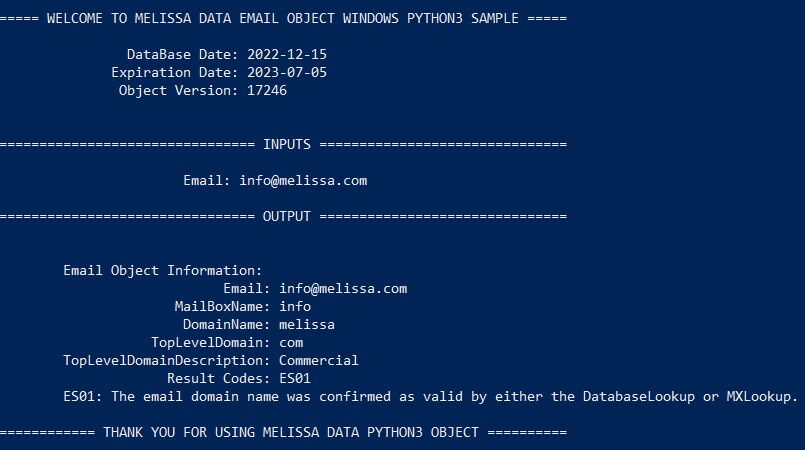
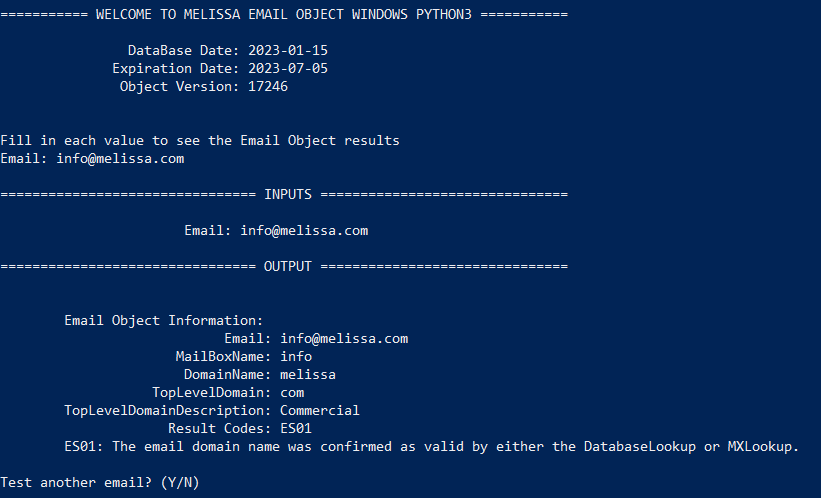
Commit Python3 code for Email Object with release notes

diff --git a/MelissaEmailObjectWindowsPython3/MelissaEmailObjectWindowsPython3.py b/MelissaEmailObjectWindowsPython3/MelissaEmailObjectWindowsPython3.py
@@ -33,7 +33,7 @@ class EmailObject:
         print(f"              Expiration Date: {self.md_email_obj.GetLicenseStringExpirationDate()}")
       
         """
-        This number should match with file properties of the Melissa Data Object binary file.
+        This number should match with file properties of the Melissa Object binary file.
         If TEST appears with the build number, there may be a license key issue.
         """
         print(f"               Object Version: {self.md_email_obj.GetBuildNumber()}\n")
@@ -81,7 +81,7 @@ def parse_arguments():
     return (license, test_email, data_path)
 
 def run_as_console(license, test_email, data_path):
-    print("\n\n===== WELCOME TO MELISSA DATA EMAIL OBJECT WINDOWS PYTHON3 SAMPLE =====\n")
+    print("\n\n=========== WELCOME TO MELISSA EMAIL OBJECT WINDOWS PYTHON3 ===========\n")
 
     email_object = EmailObject(license, data_path)
 
@@ -145,7 +145,7 @@ def run_as_console(license, test_email, data_path):
             
               print("Invalid Response, please respond 'Y' or 'N'")
 
-    print("\n============ THANK YOU FOR USING MELISSA DATA PYTHON3 OBJECT ==========\n")
+    print("\n=============== THANK YOU FOR USING MELISSA PYTHON3 OBJECT ============\n")
     
 
 

diff --git a/MelissaEmailObjectWindowsPython3/mdEmail_pythoncode.py b/MelissaEmailObjectWindowsPython3/mdEmail_pythoncode.py
@@ -7,9 +7,9 @@ dir = os.getcwd()
 
 
 if (os.name == 'nt'):
-  lib = ctypes.CDLL(f'{dir}/MelissaDataEmailObjectWindowsPython3Sample/mdEmail.dll')
+  lib = ctypes.CDLL(f'{dir}/MelissaEmailObjectWindowsPython3/mdEmail.dll')
 else:
-  lib = ctypes.CDLL('libmdPhone.so')
+  lib = ctypes.CDLL(f'{dir}/MelissaEmailObjectLinuxPython3/libmdPhone.so')
 
 
 lib.mdEmailCreate.argtypes = []

diff --git a/README.md b/README.md
@@ -1,8 +1,12 @@
-# Melissa Data Email Object Windows Python3 Sample
+# Melissa - Email Object Windows Python3
 
 ## Purpose
 
-This is an sample of the Melissa Data Email Object using Python3
+This code showcases the Melissa Email Object using Python3
+
+Please feel free to copy or embed this code to your own project. Happy coding!
+
+For the latest Melissa Email Object release notes, please visit: https://releasenotes.melissa.com/on-premise-api/email-object/
 
 The console will ask the user for:
 
@@ -26,7 +30,7 @@ And return
 
 #### mdEmail.dll
 
-This is the c++ code of the Melissa Data Object.
+This is the c++ code of the Melissa Object.
 
 #### Data File(s)
 - mdEmail.cfg
@@ -37,14 +41,30 @@ These instructions will get you a copy of the project up and running on your loc
 
 This project is compatible with Python3
 
-#### Install the Python3
+#### Install Python3
 Before starting, make sure that Python3 has been correctly installed on your machine and your environment paths are configured. 
+
+You can download Python here: 
+https://www.python.org/downloads/
+
+To set up your Path to correctly to use the python3 command, execute the following steps:
+1) Run Powershell as an administrator 
+2) Execute the command: 
+`New-Item -ItemType SymbolicLink -Path "Link" -Target "Target"`
+
+    where "Target" is the path to py.exe (by default this should be "C:\Windows\py.exe")\
+    and "Link" is the path to py.exe, but "py.exe" is replaced with "python3.exe"\
+    For Example:\
+    `New-Item -ItemType SymbolicLink -Path "C:\Windows\python3.exe" -Target "C:\Windows\py.exe"`
+
 If you are unsure, you can check by opening a command prompt window and typing the following:
 `python3 --version`
 
- ![alt text](/screenshots/python_version.PNG)
+![alt text](/screenshots/python_version.PNG)
 
 If you see the version number then you have installed Python3 and set up your environment paths correctly!
+
+----------------------------------------
 
 
 #### Set up Powershell settings
@@ -79,7 +99,7 @@ Melissa Updater is a CLI application allowing the user to update their Melissa a
 	- It will handle all of the data download/path and dll(s) for you. 
 2.  If you already have the latest DQS Release (ZIP), you can find the data file(s) and dll(s) in there
 	- Use the location of where you copied/installed the data and update the "$DataPath" variable in the powershell script.
-	- Copy all the dll(s) mentioned above into the `MelissaDataEmailObjectWindowsPython3Sample` project folder.
+	- Copy all the dll(s) mentioned above into the `MelissaEmailObjectWindowsPython3` project folder.
 	
 ----------------------------------------
 
@@ -89,31 +109,31 @@ Parameters:
  	
   This is convenient when you want to get results for a specific email address in one run instead of testing multiple email addresses in interactive mode.  
 
-- -license (optional): a license string to test the email object
+- -license (optional): a license string to test the Email Object
 - -quiet (optional): add to the command if you do not want to get any console output from the Melissa Updater
 
 When you have modified the script to match your data location, let's run the script. There are two modes:
 - Interactive 
 
-	The script will prompt the user for an email address, then use the provided email to test Email object. For example:
+	The script will prompt the user for an email address, then use the provided email to test Email Object. For example:
 	```
-	$ .\MelissaDataEmailObjectWindowsPython3Sample.ps1
+	$ .\MelissaEmailObjectWindowsPython3.ps1
 	```
     For quiet mode:
     ```
-    $ .\MelissaDataEmailObjectWindowsPython3Sample.ps1 -quiet
+    $ .\MelissaEmailObjectWindowsPython3.ps1 -quiet
     ```
 - Command Line 
 
-	You can pass an email in ```-email``` parameter and a license string in ```-license``` parameter to test Email object. For example:
+	You can pass an email in ```-email``` parameter and a license string in ```-license``` parameter to test Email Object. For example:
 	```
-    $ .\MelissaDataEmailObjectWindowsPython3Sample.ps1 -email "info@melissa.com" 
-    $ .\MelissaDataEmailObjectWindowsPython3Sample.ps1 -email "info@melissa.com" -license "<your_license_string>"
+    $ .\MelissaEmailObjectWindowsPython3.ps1 -email "info@melissa.com" 
+    $ .\MelissaEmailObjectWindowsPython3.ps1 -email "info@melissa.com" -license "<your_license_string>"
     ```
 	For quiet mode:
     ```
-    $ .\MelissaDataEmailObjectWindowsPython3Sample.ps1 -email "info@melissa.com" -quiet
-    $ .\MelissaDataEmailObjectWindowsPython3Sample.ps1 -email "info@melissa.com" -license "<your_license_string>" -quiet
+    $ .\MelissaEmailObjectWindowsPython3.ps1 -email "info@melissa.com" -quiet
+    $ .\MelissaEmailObjectWindowsPython3.ps1 -email "info@melissa.com" -license "<your_license_string>" -quiet
     ```
 This is the expected output from a successful setup for interactive mode:
 
@@ -122,7 +142,7 @@ This is the expected output from a successful setup for interactive mode:
     
 ## Troubleshooting
 
-Troubleshooting for errors found while running your sample program.
+Troubleshooting for errors found while running your program.
 
 ### Errors:
 
@@ -137,7 +157,7 @@ Troubleshooting for errors found while running your sample program.
 ## Contact Us
 
 For free technical support, please call us at 800-MELISSA ext. 4
-(800-635-4772 ext. 4) or email us at tech@MelissaData.com.
+(800-635-4772 ext. 4) or email us at tech@melissa.com.
 
-To purchase this product, contact Melissa Data sales department at
+To purchase this product, contact Melissa sales department at
 800-MELISSA ext. 3 (800-635-4772 ext. 3).

diff --git a/LICENSE.md b/LICENSE.md
@@ -1,0 +1,21 @@
+MIT License
+
+Copyright (c) Melissa Data Corporation
+
+Permission is hereby granted, free of charge, to any person obtaining a copy
+of this software and associated documentation files (the "Software"), to deal
+in the Software without restriction, including without limitation the rights
+to use, copy, modify, merge, publish, distribute, sublicense, and/or sell
+copies of the Software, and to permit persons to whom the Software is
+furnished to do so, subject to the following conditions:
+
+The above copyright notice and this permission notice shall be included in all
+copies or substantial portions of the Software.
+
+THE SOFTWARE IS PROVIDED "AS IS", WITHOUT WARRANTY OF ANY KIND, EXPRESS OR
+IMPLIED, INCLUDING BUT NOT LIMITED TO THE WARRANTIES OF MERCHANTABILITY,
+FITNESS FOR A PARTICULAR PURPOSE AND NONINFRINGEMENT. IN NO EVENT SHALL THE
+AUTHORS OR COPYRIGHT HOLDERS BE LIABLE FOR ANY CLAIM, DAMAGES OR OTHER
+LIABILITY, WHETHER IN AN ACTION OF CONTRACT, TORT OR OTHERWISE, ARISING FROM,
+OUT OF OR IN CONNECTION WITH THE SOFTWARE OR THE USE OR OTHER DEALINGS IN THE
+SOFTWARE.
